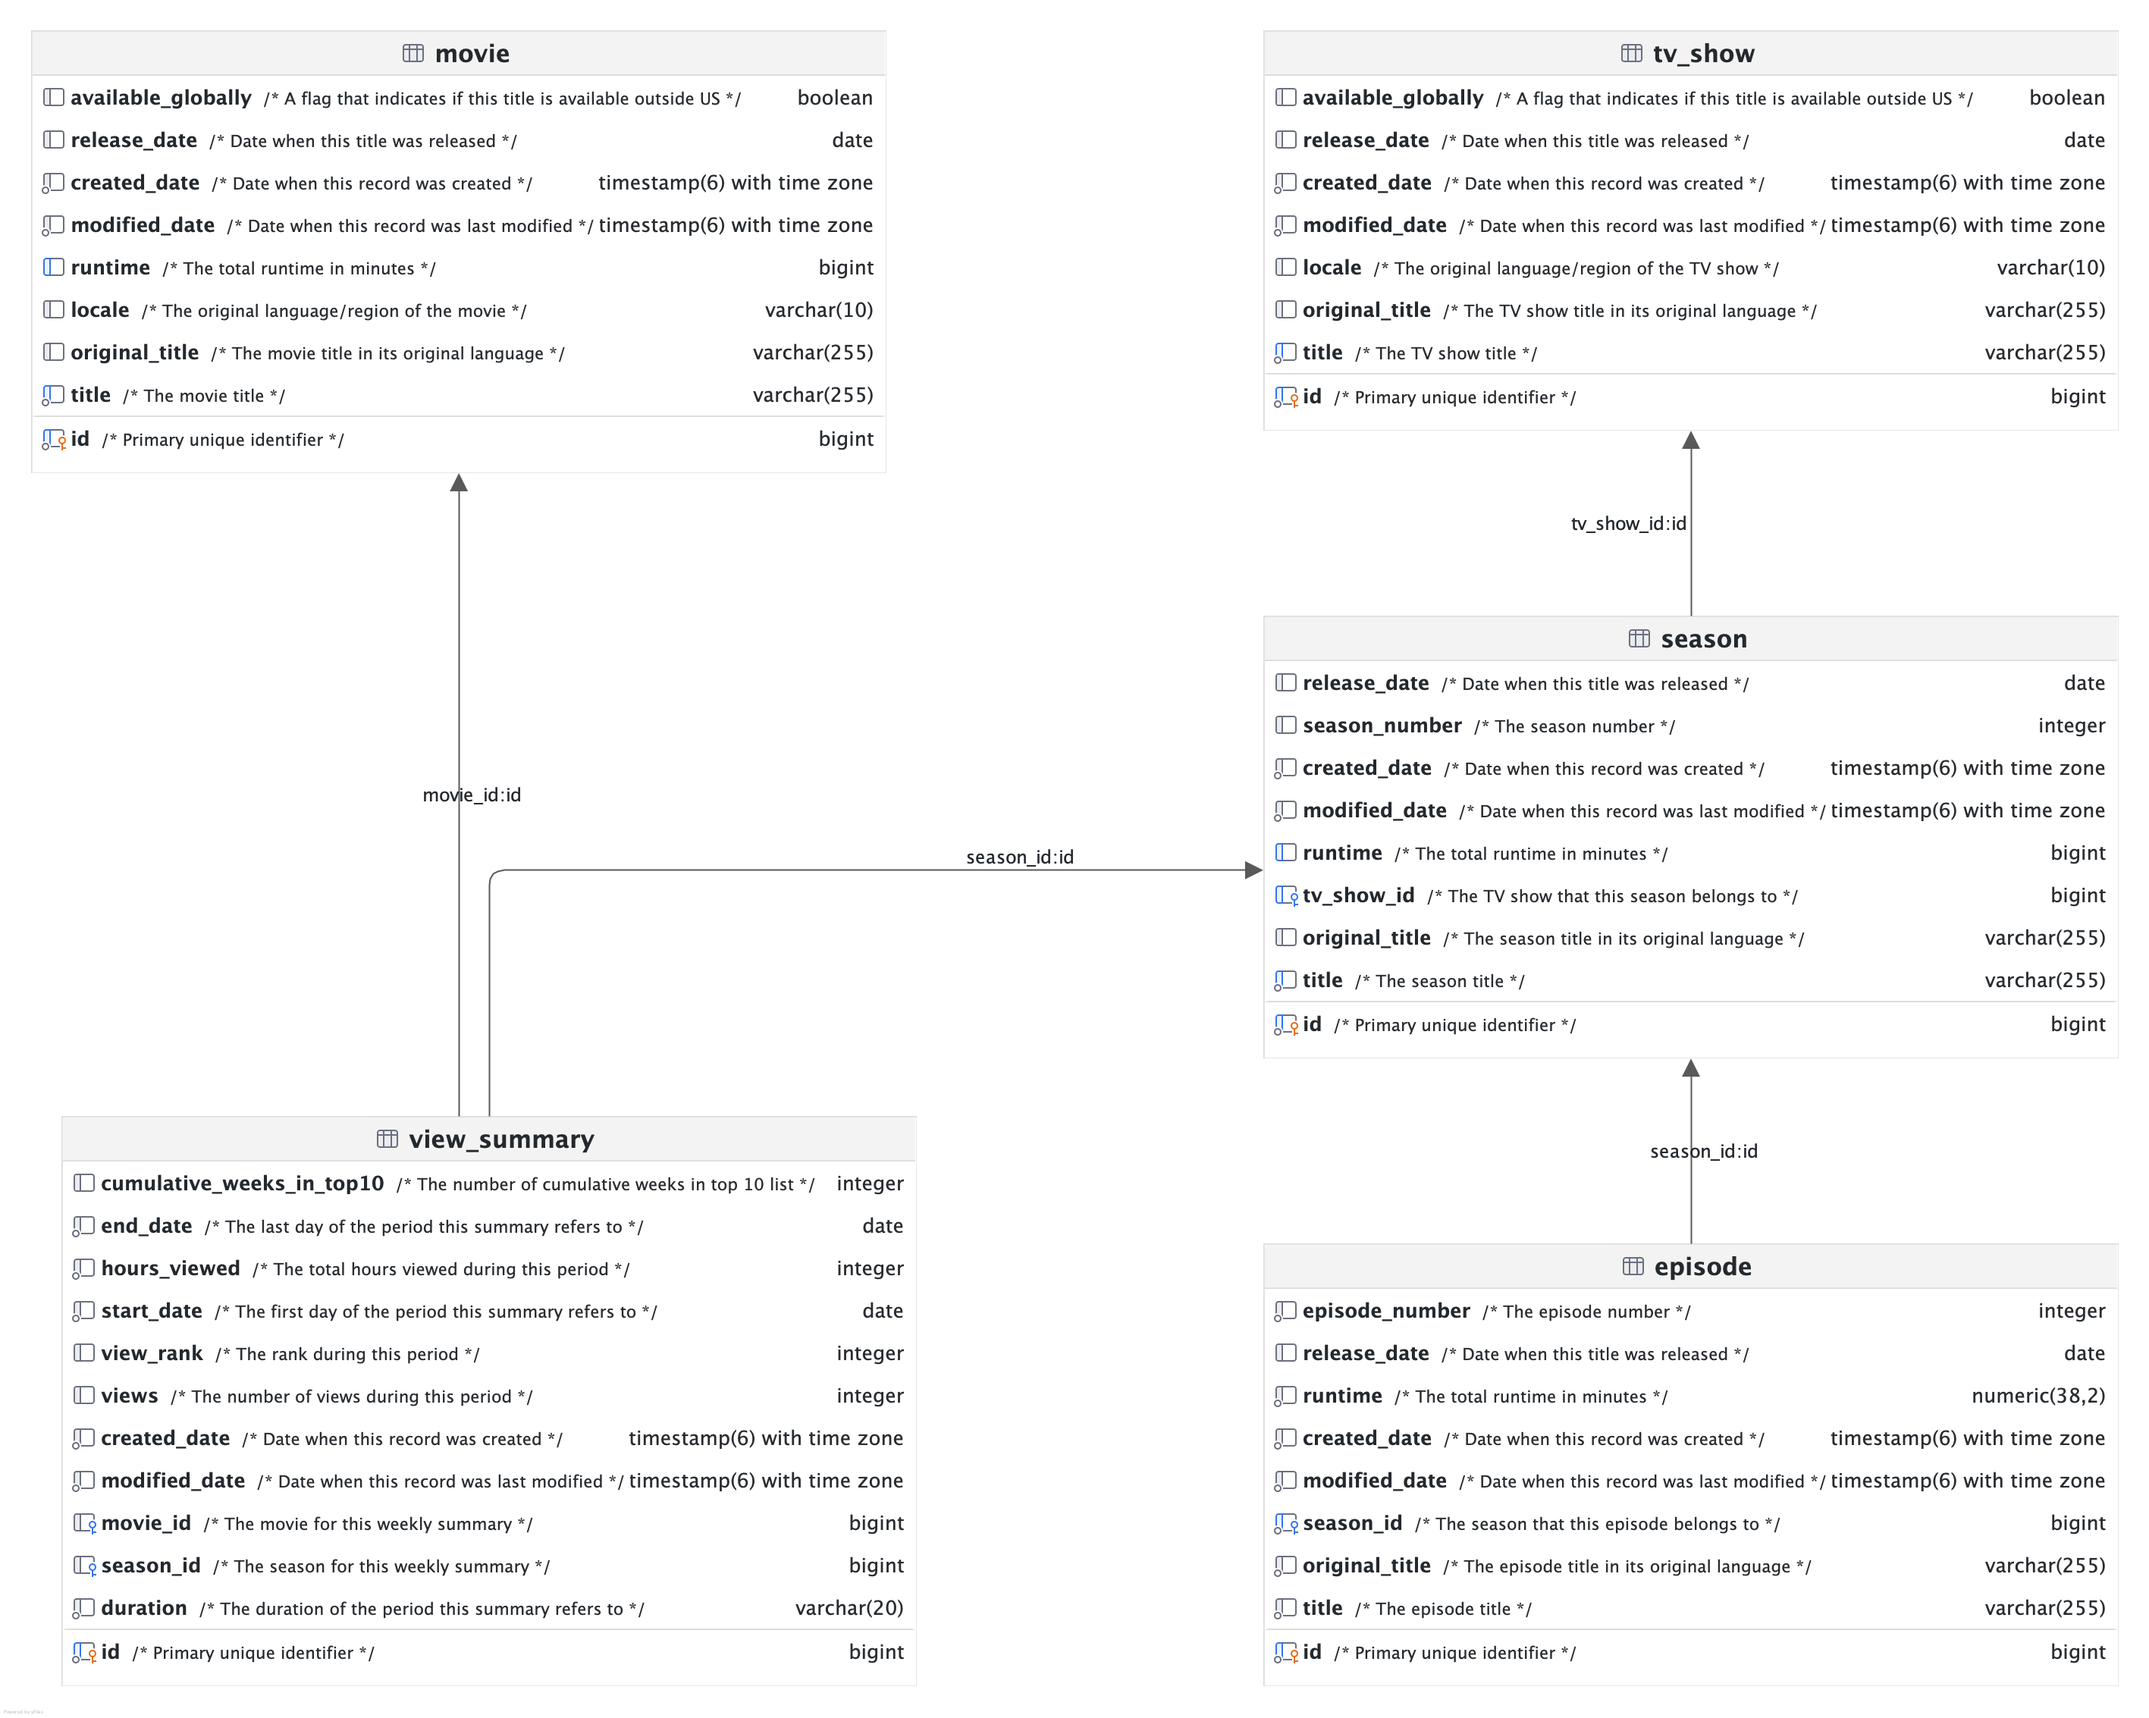
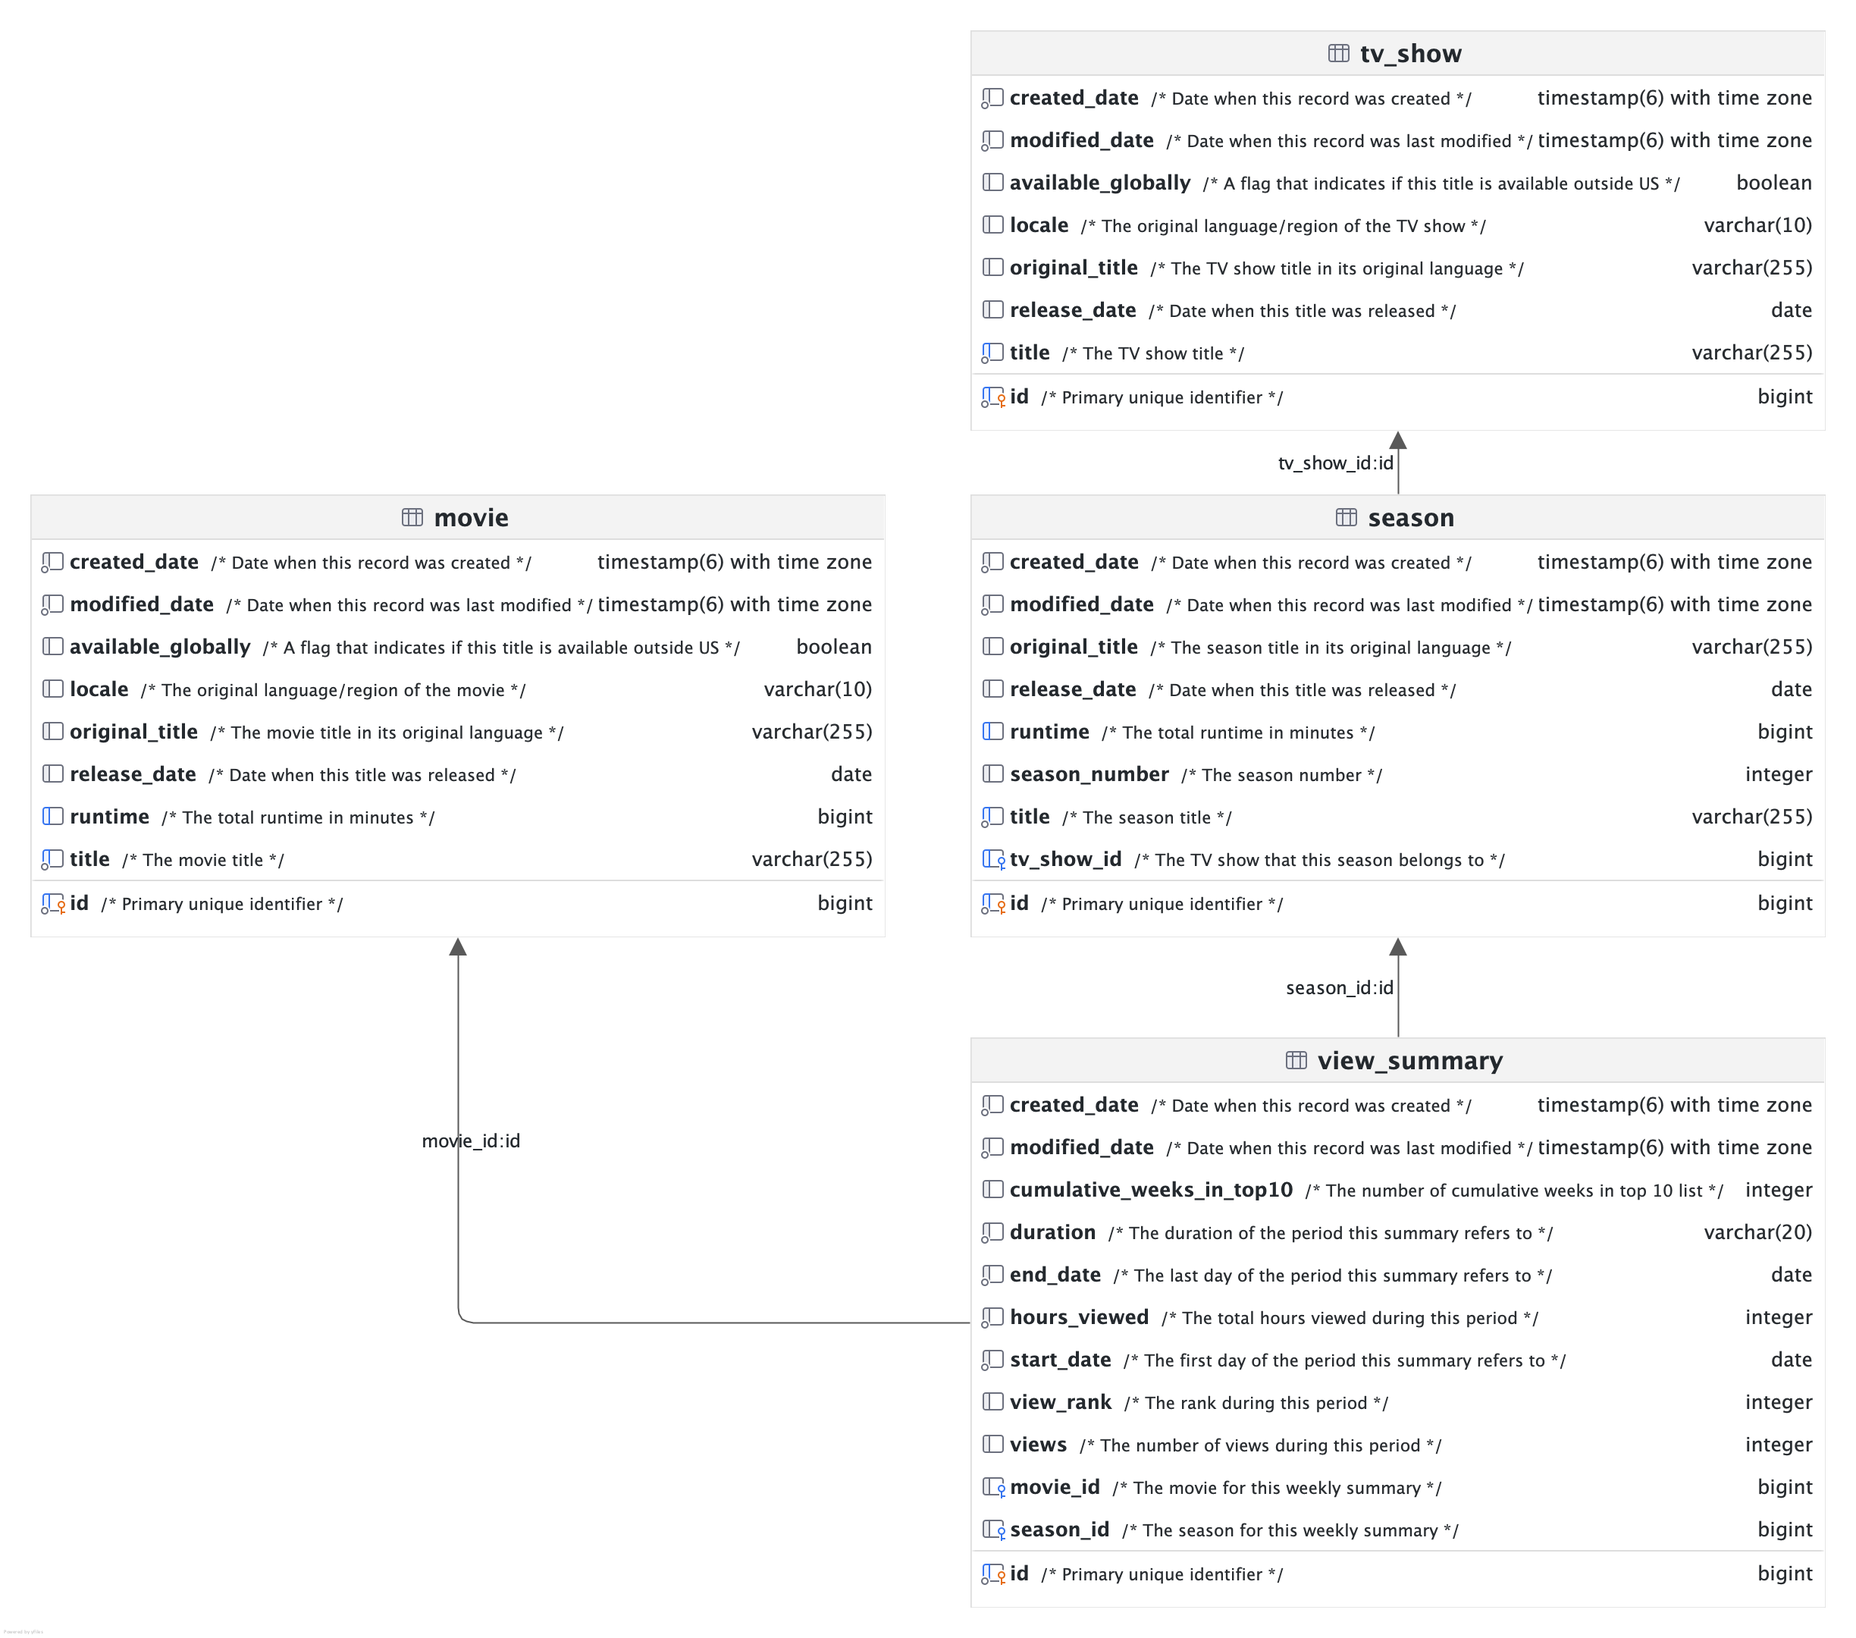
feat: removing episode table since there is no data available (#2)

diff --git a/src/main/kotlin/com/github/lerocha/netflixdb/batch/CreateNetflixDatabaseJobConfig.kt b/src/main/kotlin/com/github/lerocha/netflixdb/batch/CreateNetflixDatabaseJobConfig.kt
@@ -9,7 +9,6 @@ import com.github.lerocha.netflixdb.dto.toSeason
 import com.github.lerocha.netflixdb.dto.toTvShow
 import com.github.lerocha.netflixdb.dto.updateViewSummary
 import com.github.lerocha.netflixdb.entity.AbstractEntity
-import com.github.lerocha.netflixdb.entity.Episode
 import com.github.lerocha.netflixdb.entity.Movie
 import com.github.lerocha.netflixdb.entity.Season
 import com.github.lerocha.netflixdb.entity.SummaryDuration
@@ -66,7 +65,6 @@ class CreateNetflixDatabaseJobConfig(
             Movie::class.java,
             TvShow::class.java,
             Season::class.java,
-            Episode::class.java,
             ViewSummary::class.java,
         )
 

diff --git a/src/main/kotlin/com/github/lerocha/netflixdb/entity/Season.kt b/src/main/kotlin/com/github/lerocha/netflixdb/entity/Season.kt
@@ -49,8 +49,8 @@ class Season : AbstractEntity() {
     @JoinColumn(nullable = true, foreignKey = ForeignKey(name = "fk_season_tv_show_id"))
     var tvShow: TvShow? = null
 
-    @OneToMany(mappedBy = "season", fetch = FetchType.LAZY)
-    var episodes: MutableList<Episode> = mutableListOf()
+//    @OneToMany(mappedBy = "season", fetch = FetchType.LAZY)
+//    var episodes: MutableList<Episode> = mutableListOf()
 
     @OneToMany(mappedBy = "season", fetch = FetchType.LAZY, cascade = [(CascadeType.ALL)])
     var viewSummaries: MutableList<ViewSummary> = mutableListOf()
